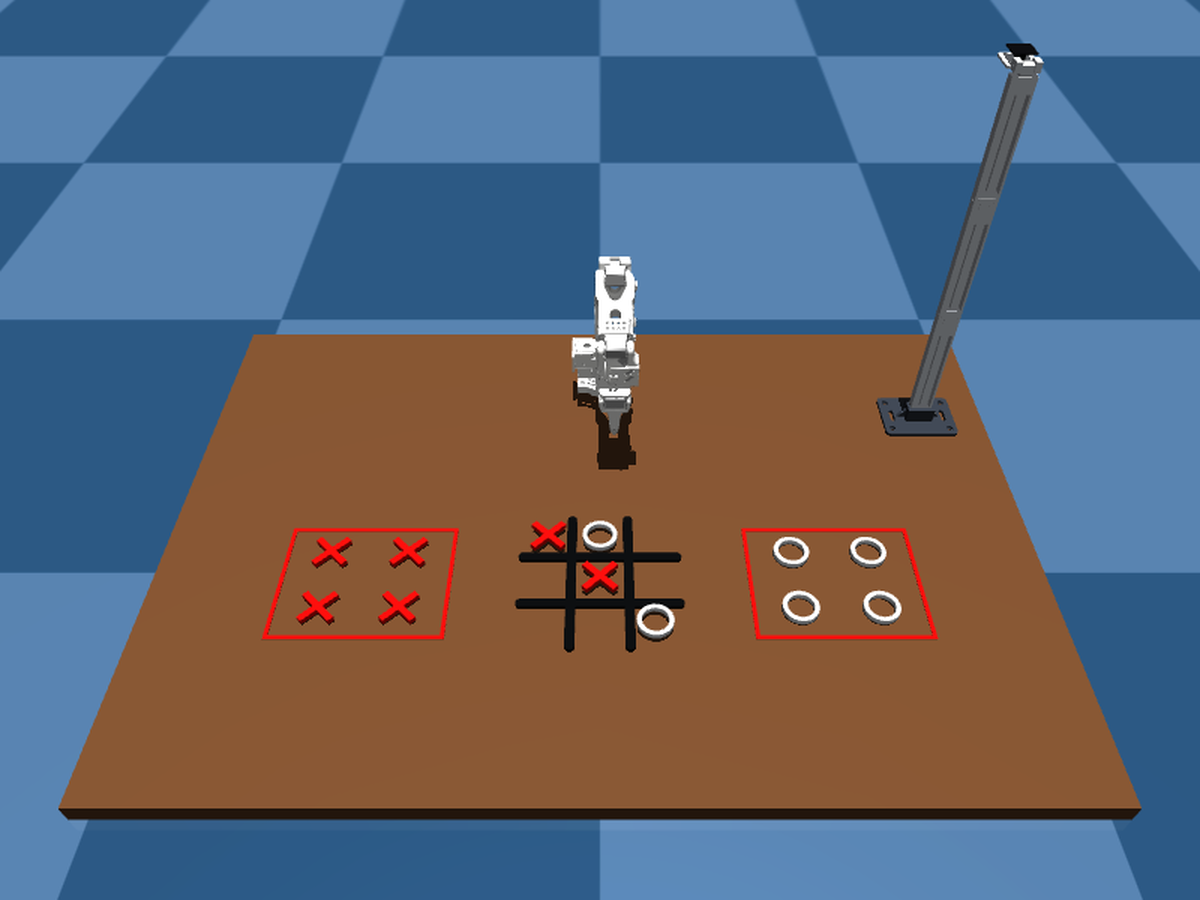
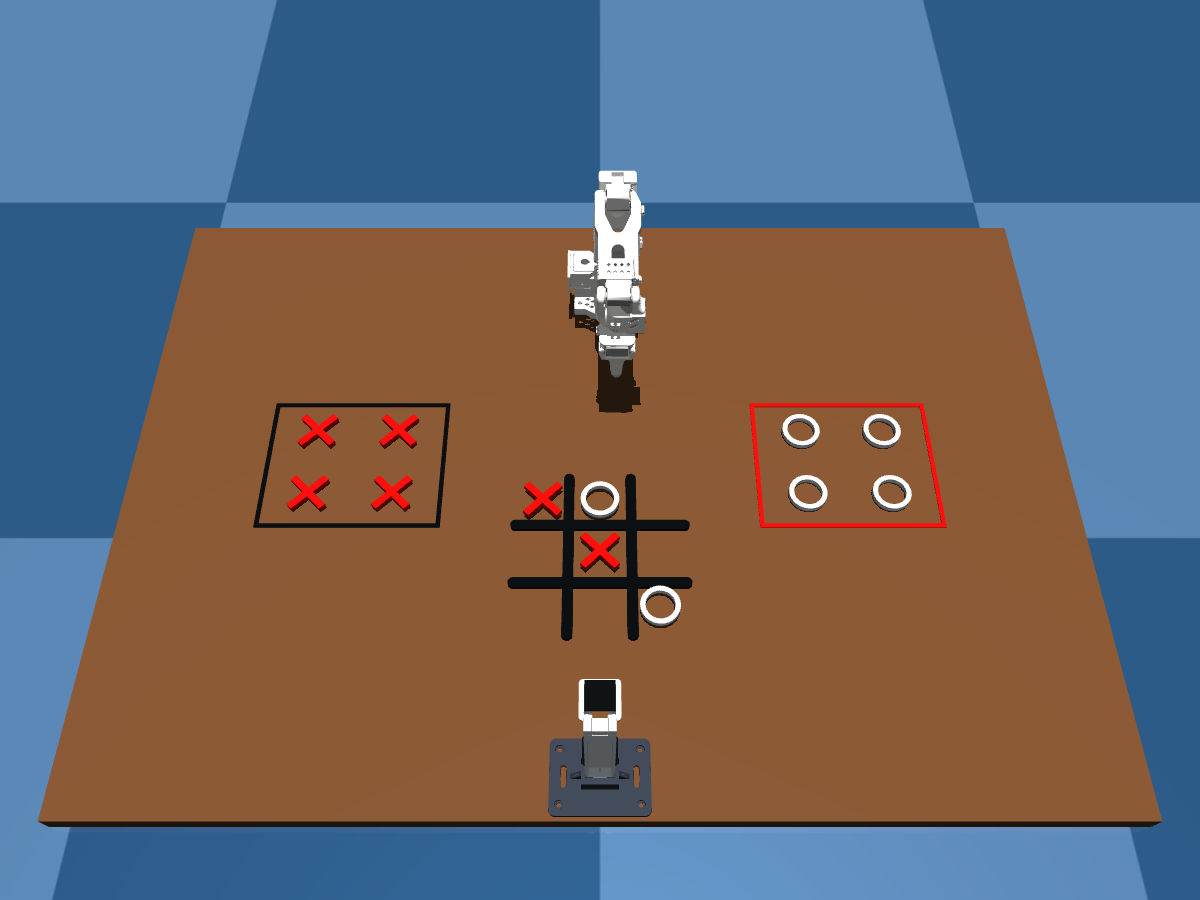
Match simulation to dataset bench layout (#4)

diff --git a/README.md b/README.md
@@ -230,17 +230,20 @@ unrestricted physical robot tool.
 ### Sim first, every time
 
 <p align="center">
-  <img src="docs/media/strands-robots-simulation.png" width="78%" alt="Software-only MuJoCo simulation with an SO-101 centered behind the CAD board, pickup zones, pieces and camera tower">
+  <img src="docs/media/strands-robots-simulation.png" width="78%" alt="Software-only MuJoCo simulation matching the dataset bench with an SO-101, robot-side pickup zones and a short front-center camera holder">
 </p>
 
 <p align="center"><sub>Software-only Strands Robots + MuJoCo scene. No robot, serial device, camera, or policy was opened.</sub></p>
 
 The simulation above was created explicitly with
 `Robot("so101", mode="sim", mesh=False)`. The board, both pickup-zone frames,
-the complete X/O inventory and the 600 mm camera tower are rendered from the
-committed metric STL geometry; the arm is the registered Strands Robots SO-101
-model. The CAD remains the manufacturing source of truth, while this scene is
-an illustrative bench layout rather than a dimensioned fixture drawing.
+the complete X/O inventory and the camera holder's short, single-section setup
+are rendered from the committed metric STL geometry; the arm is the registered
+Strands Robots SO-101 model. As on the recorded bench, the black X frame and red
+O frame sit on the robot side of the board, while the short camera holder is
+centered opposite the arm. The CAD remains the manufacturing source of truth,
+while this scene is an illustrative bench layout rather than a dimensioned
+fixture drawing.
 
 The runtime exposes Strands Robots as the common integration seam while keeping
 the deterministic 18-launcher backend for the repository's macOS AVFoundation

diff --git a/docs/media/README.md b/docs/media/README.md
@@ -35,11 +35,14 @@ Robot("so101", mode="sim", mesh=False)
 ```
 
 The scene combines the registered SO-101 model with metre-scaled copies of the
-committed board, X/O token, pickup-zone-frame and modular 600 mm camera-tower
-STLs. Four pieces of each symbol remain in their matching pickup area while two
-of each appear on the board. No serial device was enumerated, no camera was
-opened, no policy was loaded, and no hardware command was sent. The render is
-an illustrative bench composition; the authoritative manufacturing geometry
+committed board, X/O token, pickup-zone-frame and camera-holder STLs. It matches
+the recorded bench layout: the black X frame and red O frame sit toward the
+robot with their front edges aligned to the board's upper rail, and the short
+holder uses only the camera-bearing mast section directly opposite the arm.
+Four pieces of each symbol remain in their matching pickup area while two of
+each appear on the board. No serial device was enumerated, no camera was opened,
+no policy was loaded, and no hardware command was sent. The render is an
+illustrative bench composition; the authoritative manufacturing geometry
 remains under `hardware/`.
 
 ## SVG illustrations
